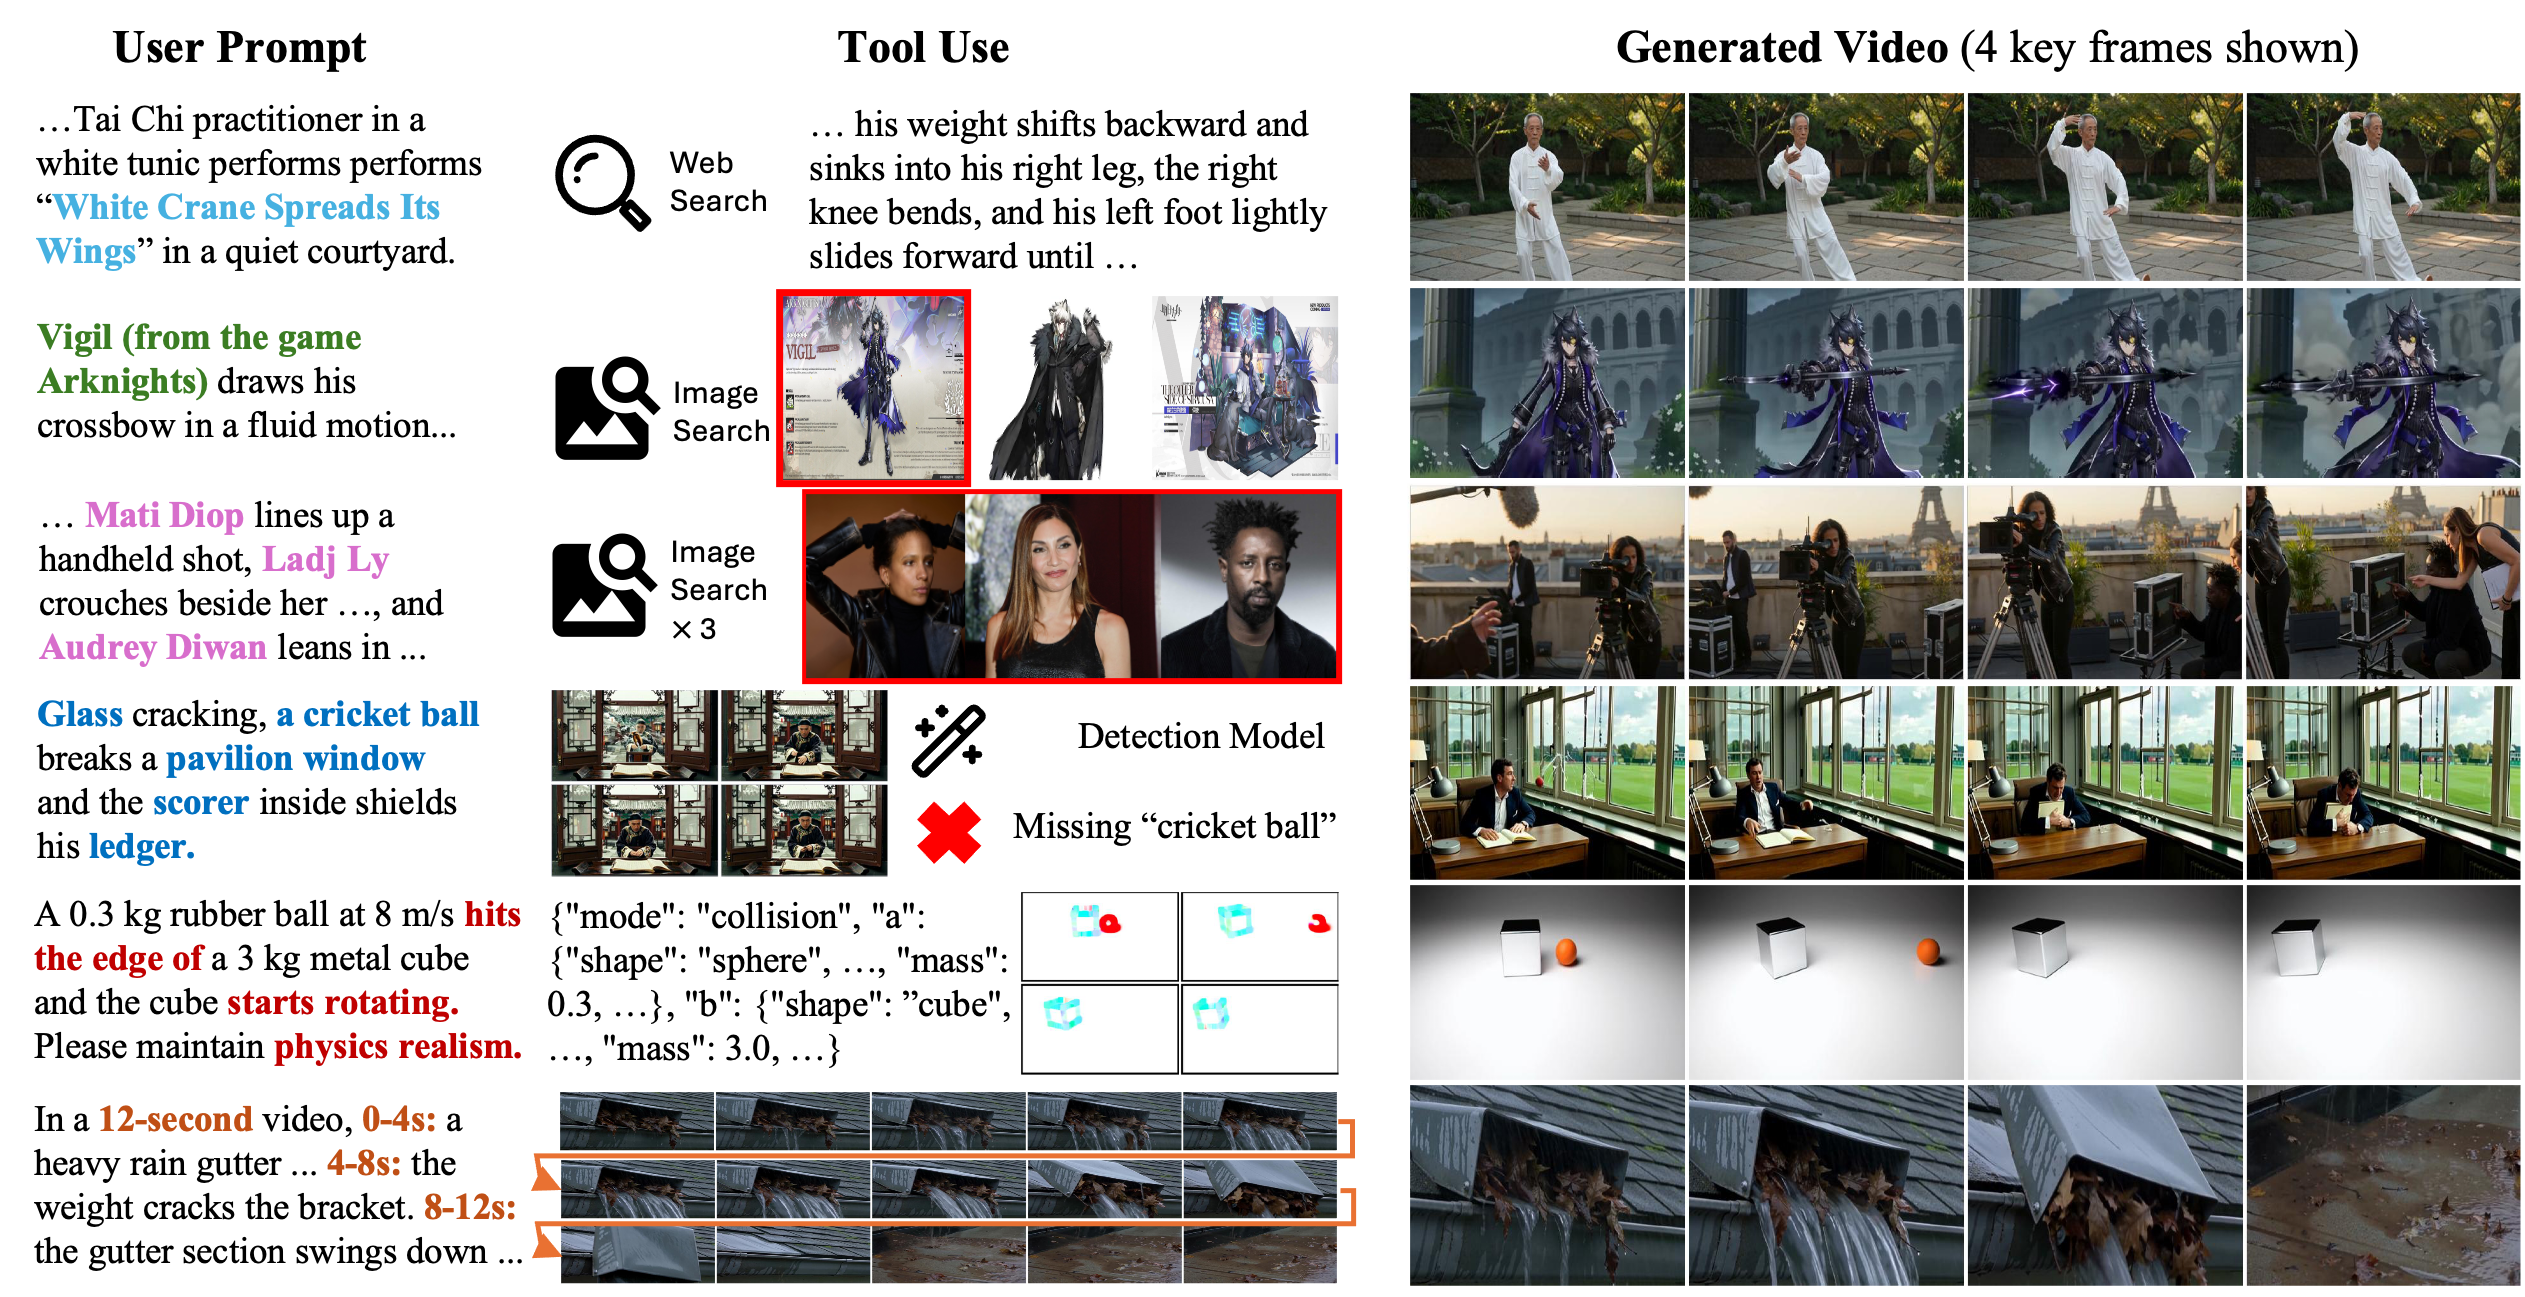
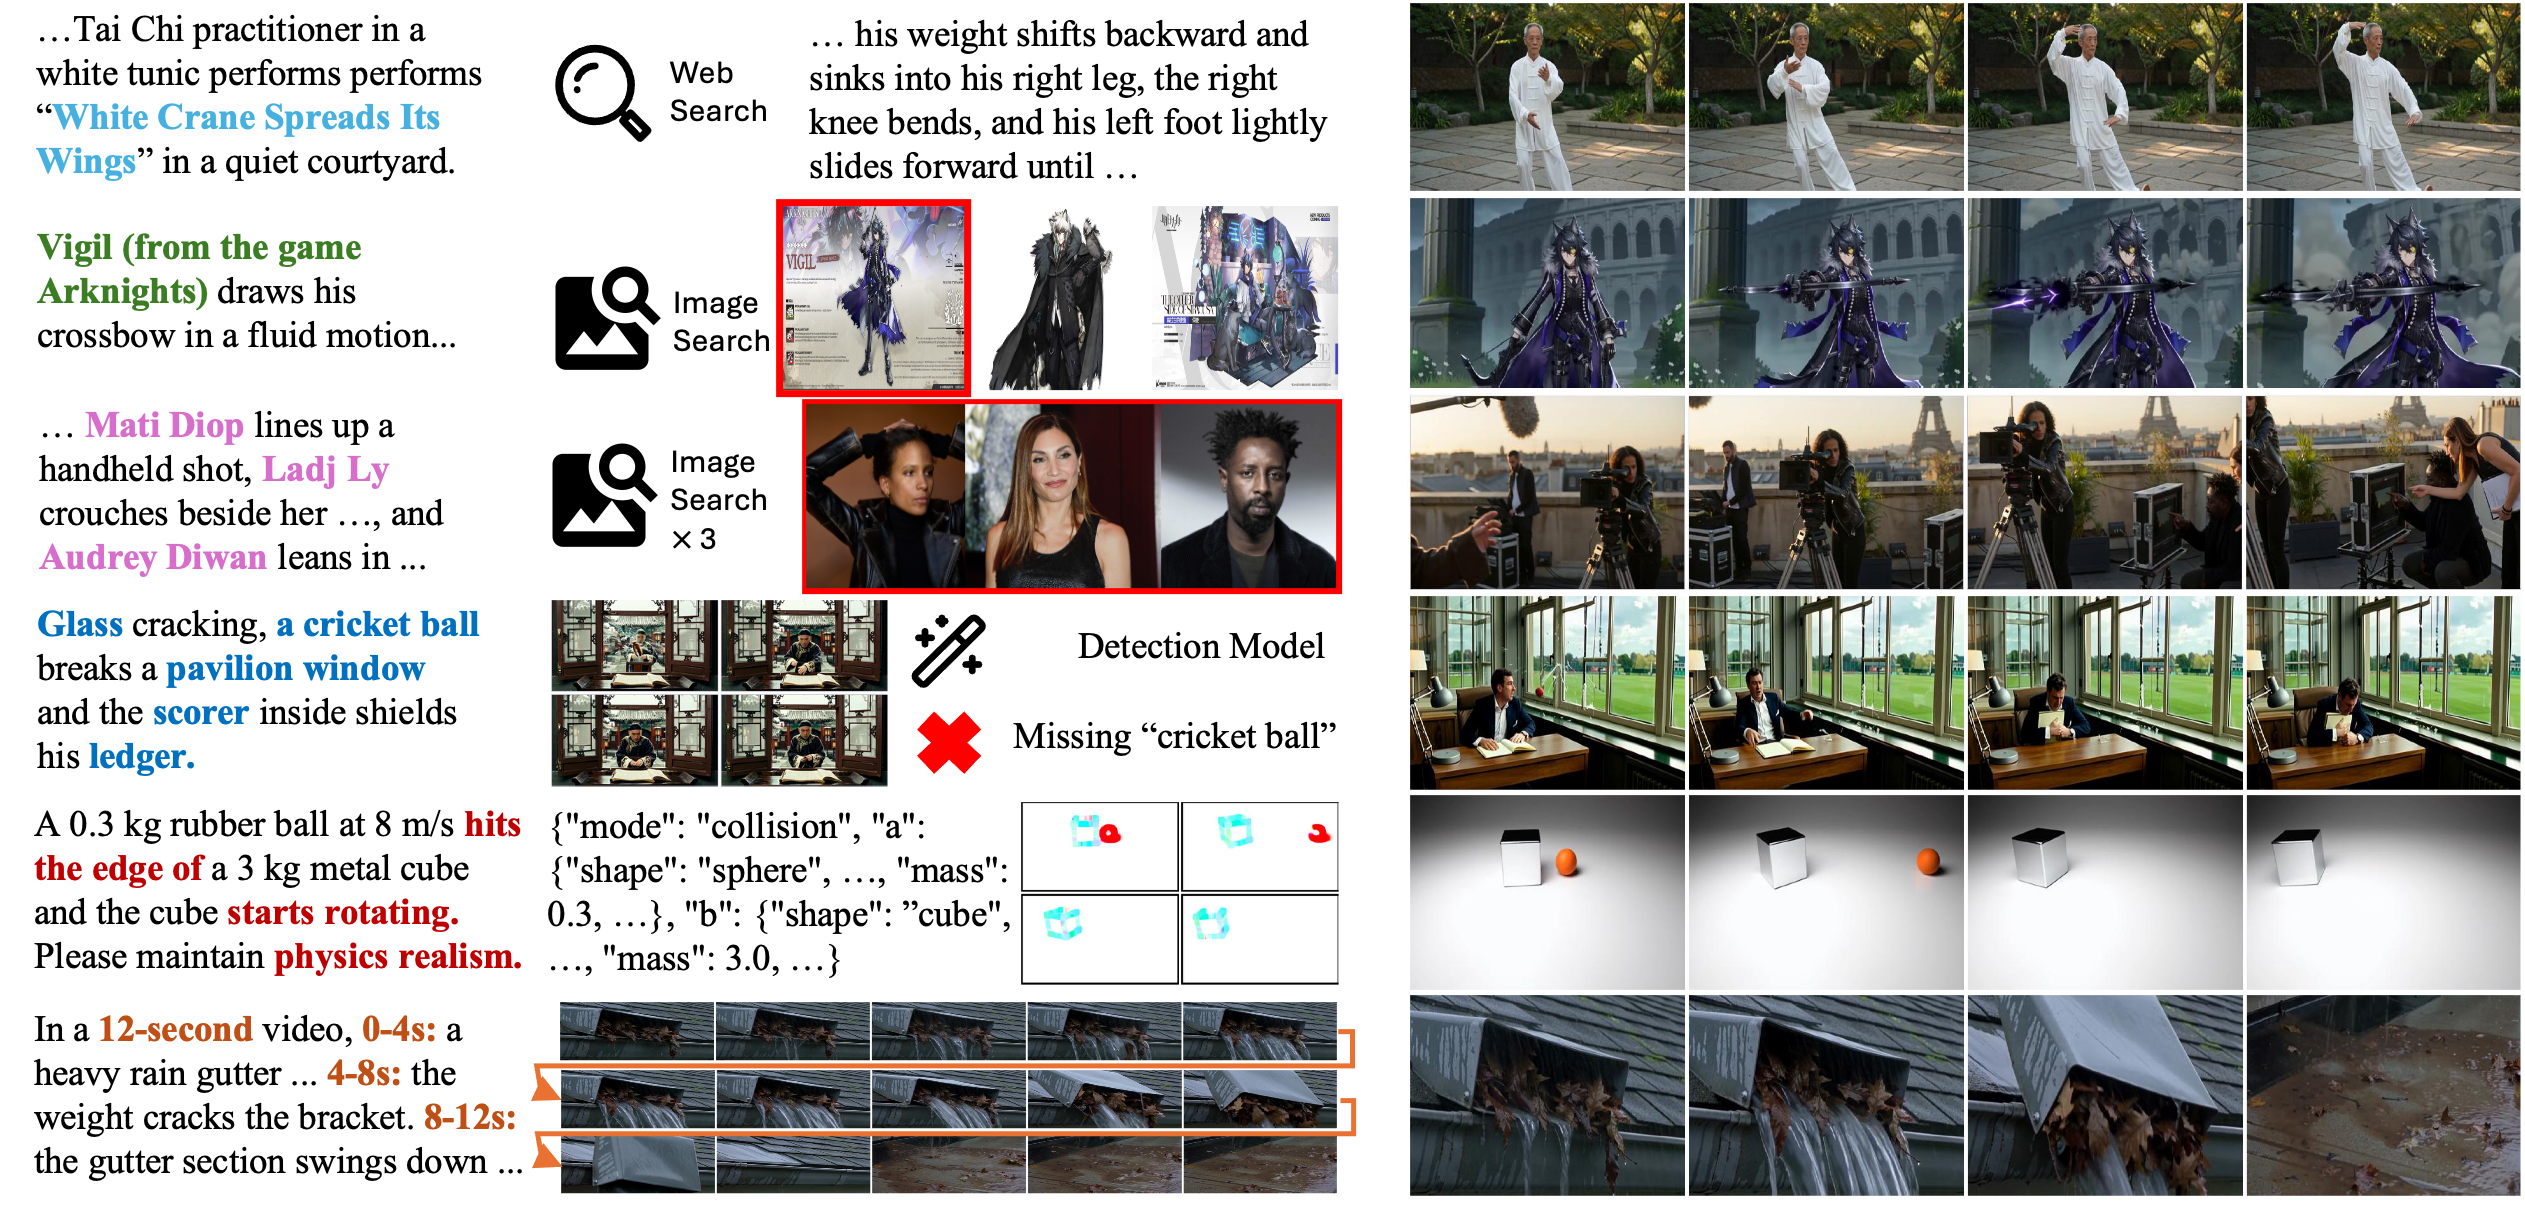
Teaser: crop the raster column titles off demo.png and replace with 3 Satoshi HTML titles (User Prompt / Tool Use / Generated Video) aligned to the image's 19.8 / 34.5 / 45.7 % column proportions

diff --git a/css/style.css b/css/style.css
@@ -264,6 +264,39 @@ table.results td, table.results th,
   box-shadow: none;
 }
 
+/* 3-column titles sitting above the teaser image, aligned to the raster columns.
+   Column proportions (measured from demo.png at 2525×1207 after cropping the
+   old raster titles): User Prompt ≈ 0..500 (19.8 %), Tool Use ≈ 500..1370
+   (34.5 %), Generated Video ≈ 1370..2525 (45.7 %). */
+.teaser-cols {
+  display: grid;
+  grid-template-columns: 19.8% 34.5% 45.7%;
+  align-items: end;
+  margin: 0 0 10px;
+  padding: 0;
+  color: #1e2836;
+}
+.teaser-col {
+  font-family: "Satoshi", -apple-system, BlinkMacSystemFont, sans-serif;
+  font-weight: 700;
+  font-size: 1.02rem;
+  line-height: 1.25;
+  text-align: center;
+  letter-spacing: -0.005em;
+  padding: 0 4px;
+}
+.teaser-col .teaser-sub {
+  font-weight: 400;
+  font-size: 0.82rem;
+  color: rgba(30, 40, 55, 0.65);
+  margin-left: 4px;
+  letter-spacing: 0;
+}
+@media (max-width: 720px) {
+  .teaser-col { font-size: 0.85rem; }
+  .teaser-col .teaser-sub { display: block; font-size: 0.72rem; margin-left: 0; }
+}
+
 /* ─────────────────────────────── METHOD: tool groups ─────────────────────────────── */
 /* Same design language as the results table:
    ivory body, dark-slate outline + shadow, dark title bar, orange-amber accent */

diff --git a/index.html b/index.html
@@ -10,7 +10,7 @@
 <link rel="preconnect" href="https://fonts.gstatic.com" crossorigin />
 <link href="https://api.fontshare.com/v2/css?f[]=satoshi@300,400,500,700,900&display=swap" rel="stylesheet" />
 <link href="https://fonts.googleapis.com/css2?family=JetBrains+Mono:wght@400;500&display=swap" rel="stylesheet" />
-<link rel="stylesheet" href="css/style.css?v=25" />
+<link rel="stylesheet" href="css/style.css?v=26" />
 <link rel="icon" type="image/svg+xml" href="images/logo.svg" />
 <link rel="icon" type="image/png" sizes="32x32"  href="images/favicon-32.png" />
 <link rel="icon" type="image/png" sizes="16x16"  href="images/favicon-16.png" />
@@ -81,6 +81,11 @@
 <!-- Teaser: paper's pre-abstract figure, transparent-bg PNG floating on the site background -->
 <div class="teaser-wrap">
   <div class="container">
+    <div class="teaser-cols" aria-hidden="true">
+      <div class="teaser-col c1">User Prompt</div>
+      <div class="teaser-col c2">Tool Use</div>
+      <div class="teaser-col c3">Generated Video <span class="teaser-sub">(4 key frames shown)</span></div>
+    </div>
     <img src="images/demo.png" alt="VideoGen-Agent teaser — six prompts × tool use × generated video" class="teaser-img" />
   </div>
 </div>

diff --git a/compare_sd1.html b/compare_sd1.html
@@ -10,7 +10,7 @@
 <link rel="preconnect" href="https://fonts.gstatic.com" crossorigin />
 <link href="https://api.fontshare.com/v2/css?f[]=satoshi@300,400,500,700,900&display=swap" rel="stylesheet" />
 <link href="https://fonts.googleapis.com/css2?family=JetBrains+Mono:wght@400;500&display=swap" rel="stylesheet" />
-<link rel="stylesheet" href="css/style.css?v=23" />
+<link rel="stylesheet" href="css/style.css?v=26" />
 <link rel="icon" type="image/svg+xml" href="images/logo.svg" />
 <link rel="apple-touch-icon" sizes="180x180" href="apple-touch-icon.png" />
 <link rel="shortcut icon" href="favicon.ico" />
